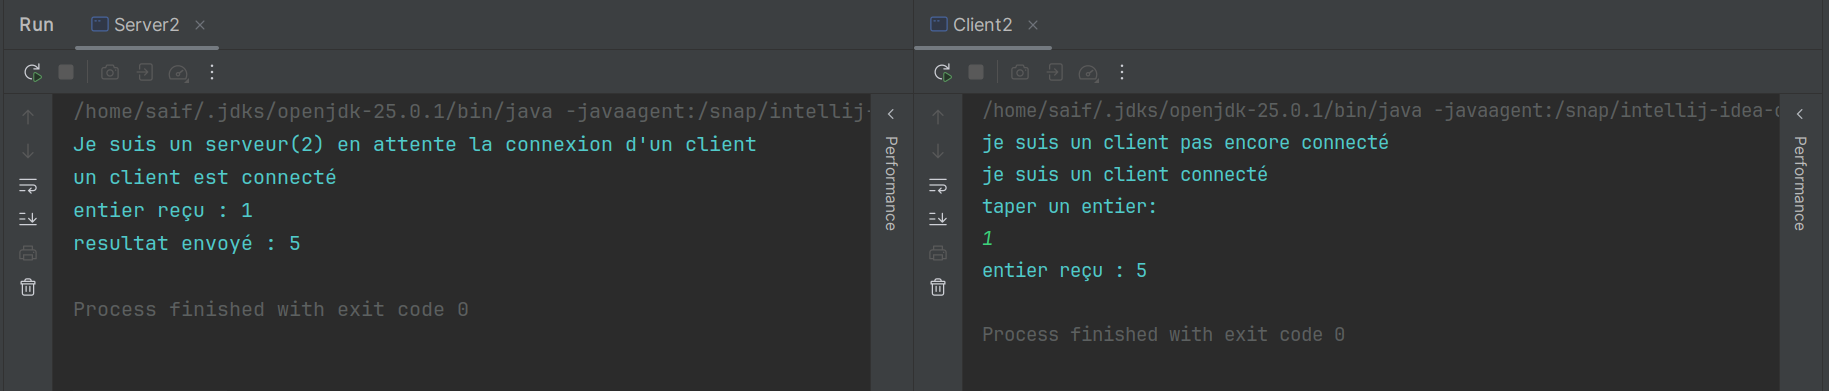
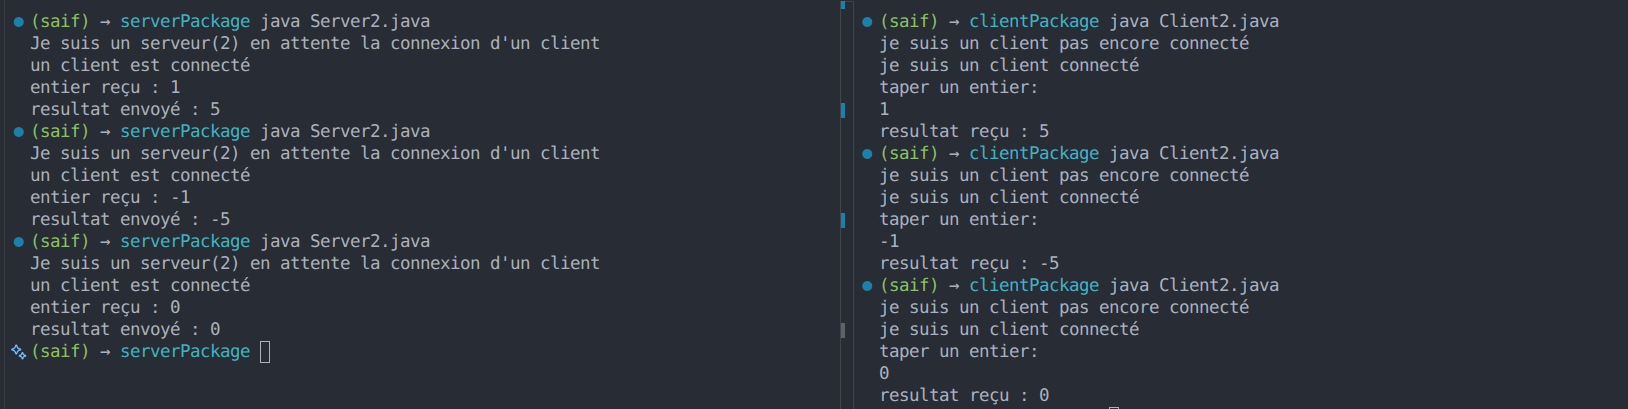
update README.md

diff --git a/README.md b/README.md
@@ -1,6 +1,17 @@
 # TP1
+
 ## Activité 1
-![act1.png](screenshots/act1.jpg)
+
+![act1.jpg](screenshots/act1.jpg)
 
 ## Activité 2
+### 2)
+![act2_2.jpg](screenshots/act2_2.jpg)
 
+Le client reçoit 251 au lieu de -5 parce que la communication ne peut transporter qu'un petit nombre (entre 0 et 255), donc -1 est transformé en 255 avant d'arriver au serveur. Le résultat 1275 est trop grand pour passer aussi, alors il est coupé et devient 251 ; il faut donc utiliser une méthode qui envoie l'entier en entier (`writeInt`/`readInt`).
+
+### 4) Exploiter les deux classes DataInputStream et DataOutputStream:
+![act2_4.jpg](screenshots/act2_4.jpg)
+
+### 5) Échange de plusieurs entiers successivement:
+![act2_5.jpg](screenshots/act2_5.jpg)
